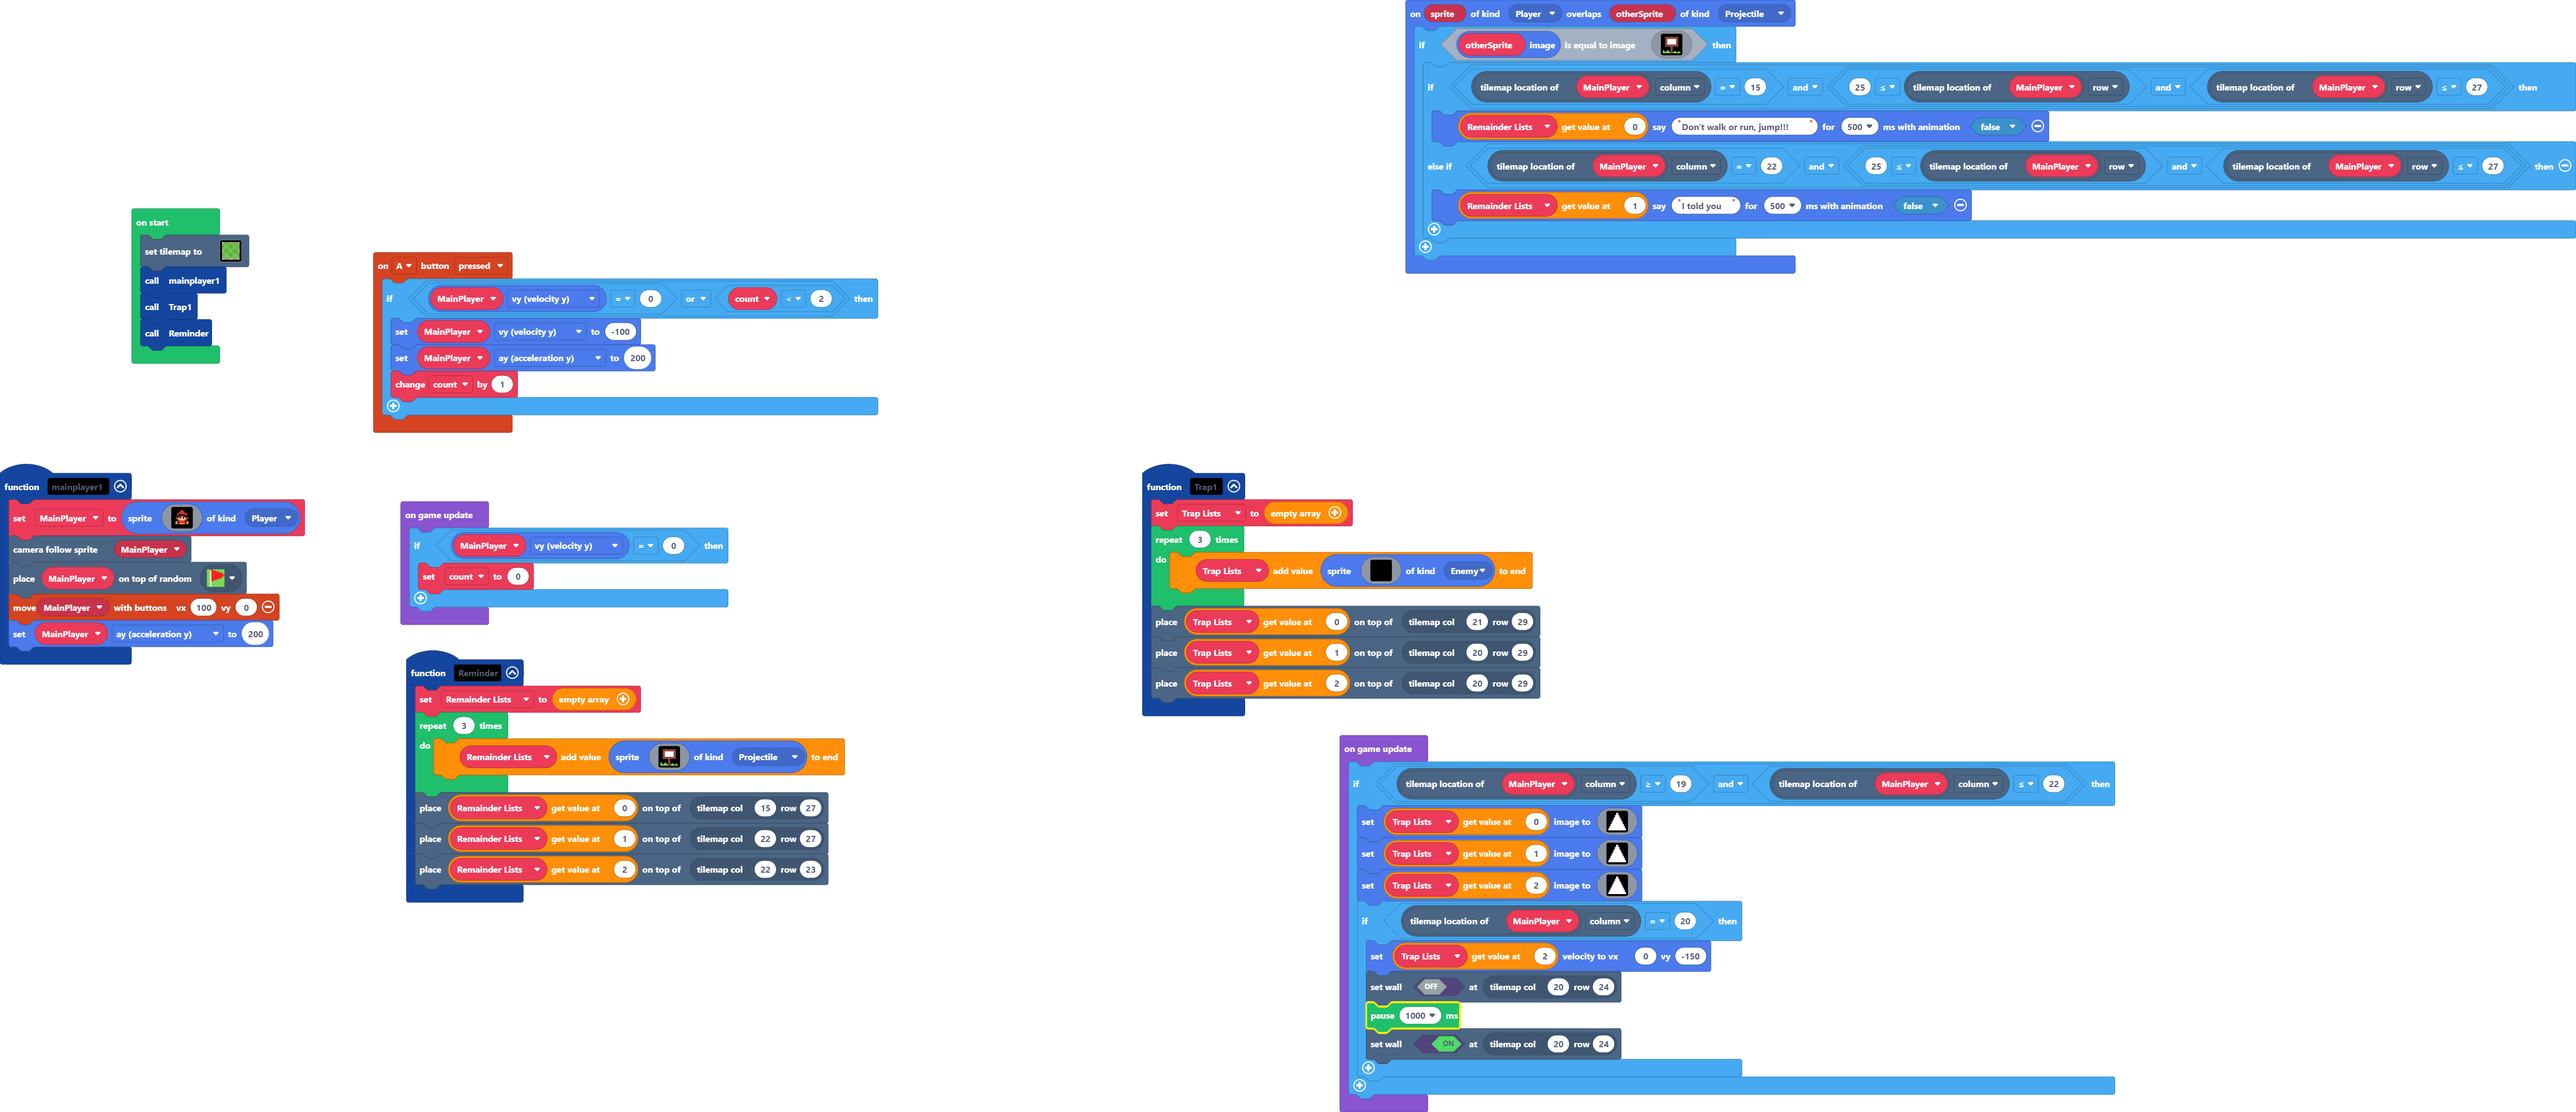
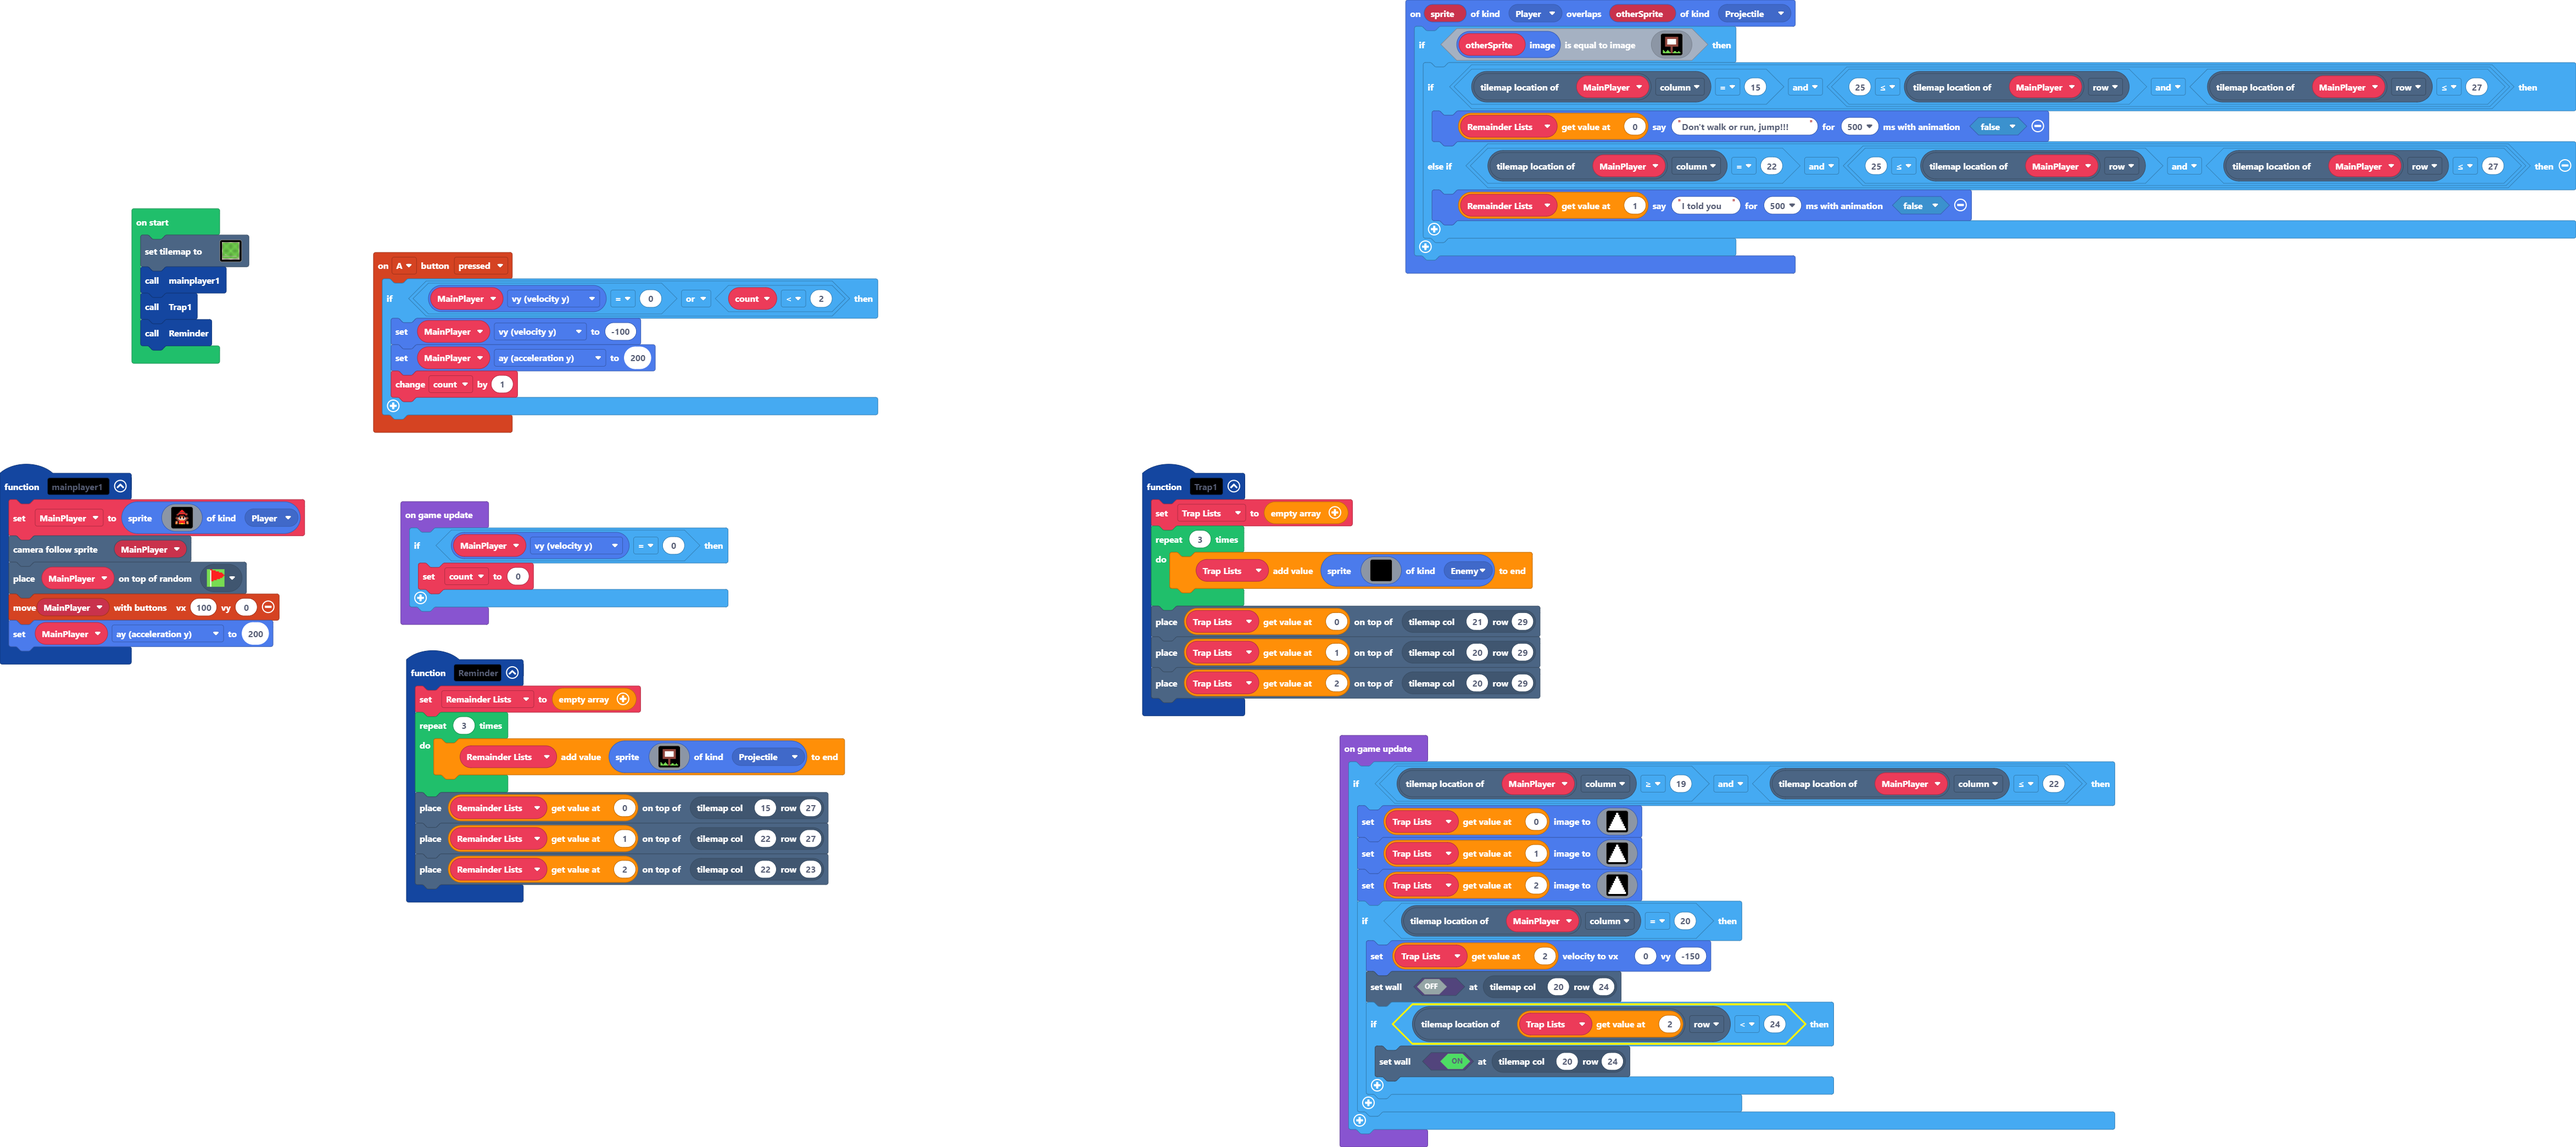
Update main.blocks, main.ts

diff --git a/main.ts b/main.ts
@@ -179,8 +179,9 @@ game.onUpdate(function () {
         if (MainPlayer.tilemapLocation().column == 20) {
             Trap_Lists[2].setVelocity(0, -150)
             tiles.setWallAt(tiles.getTileLocation(20, 24), false)
-            pause(1000)
-            tiles.setWallAt(tiles.getTileLocation(20, 24), true)
+            if (Trap_Lists[2].tilemapLocation().row < 24) {
+                tiles.setWallAt(tiles.getTileLocation(20, 24), true)
+            }
         }
     }
 })
